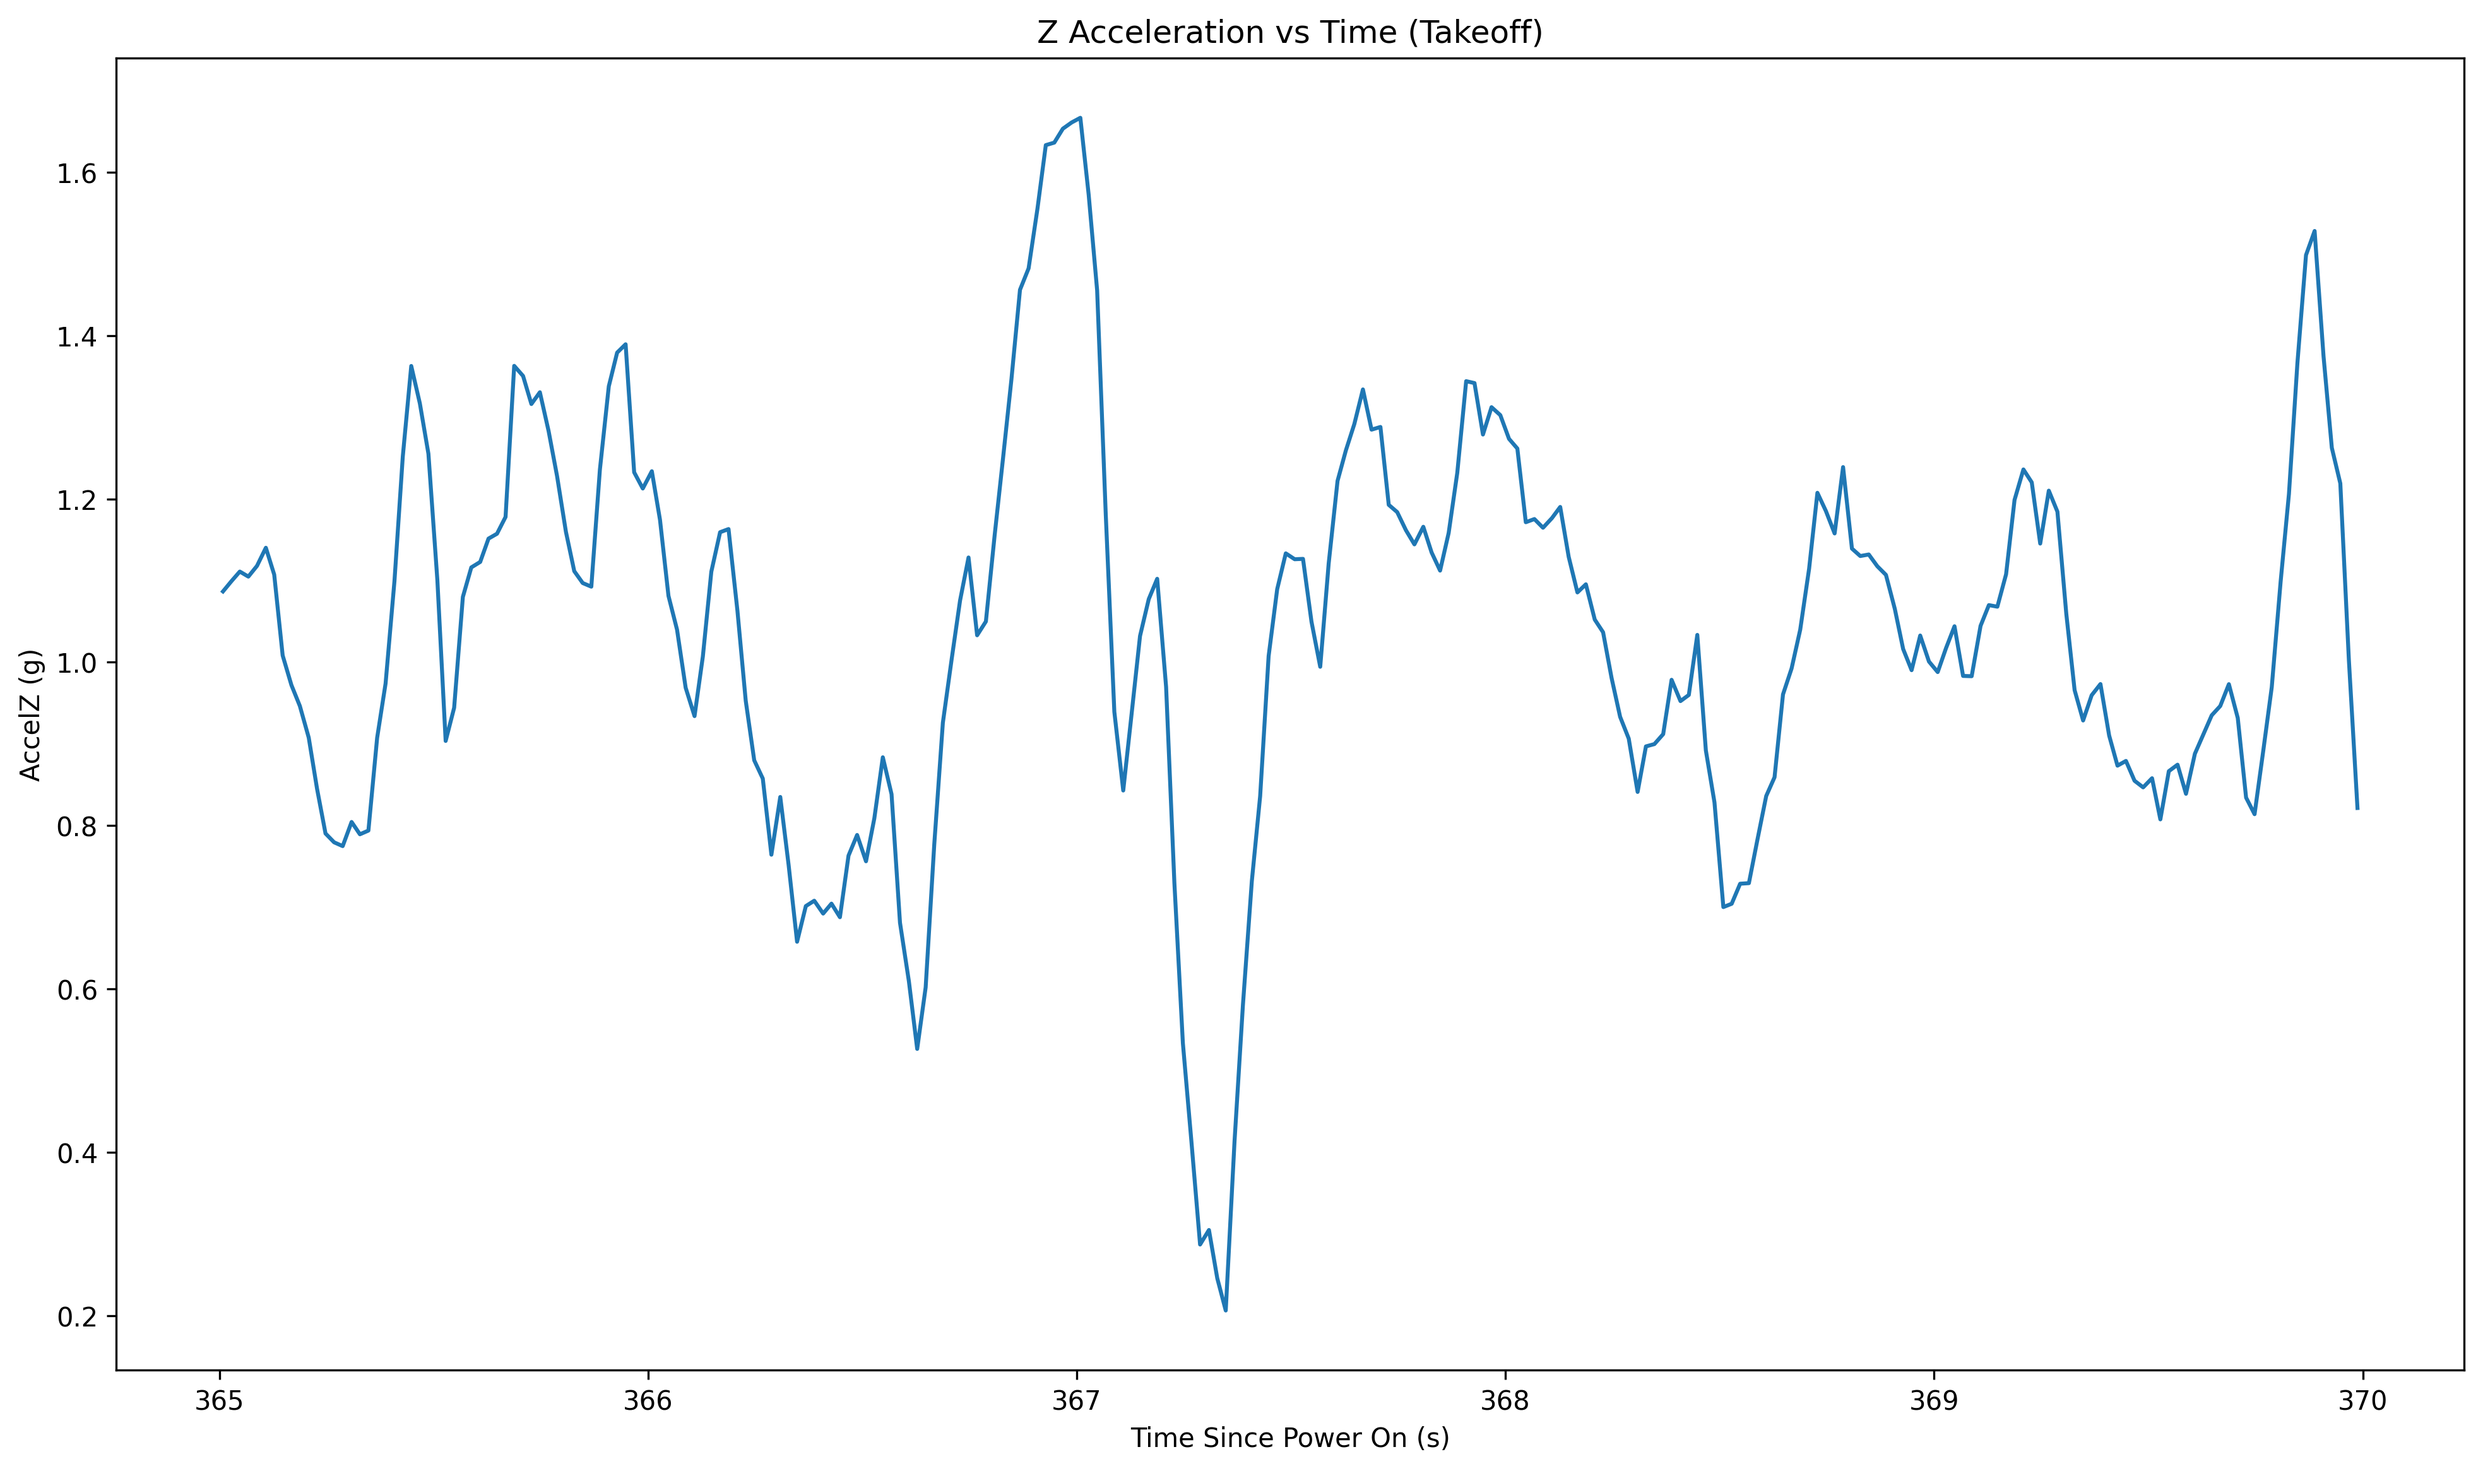
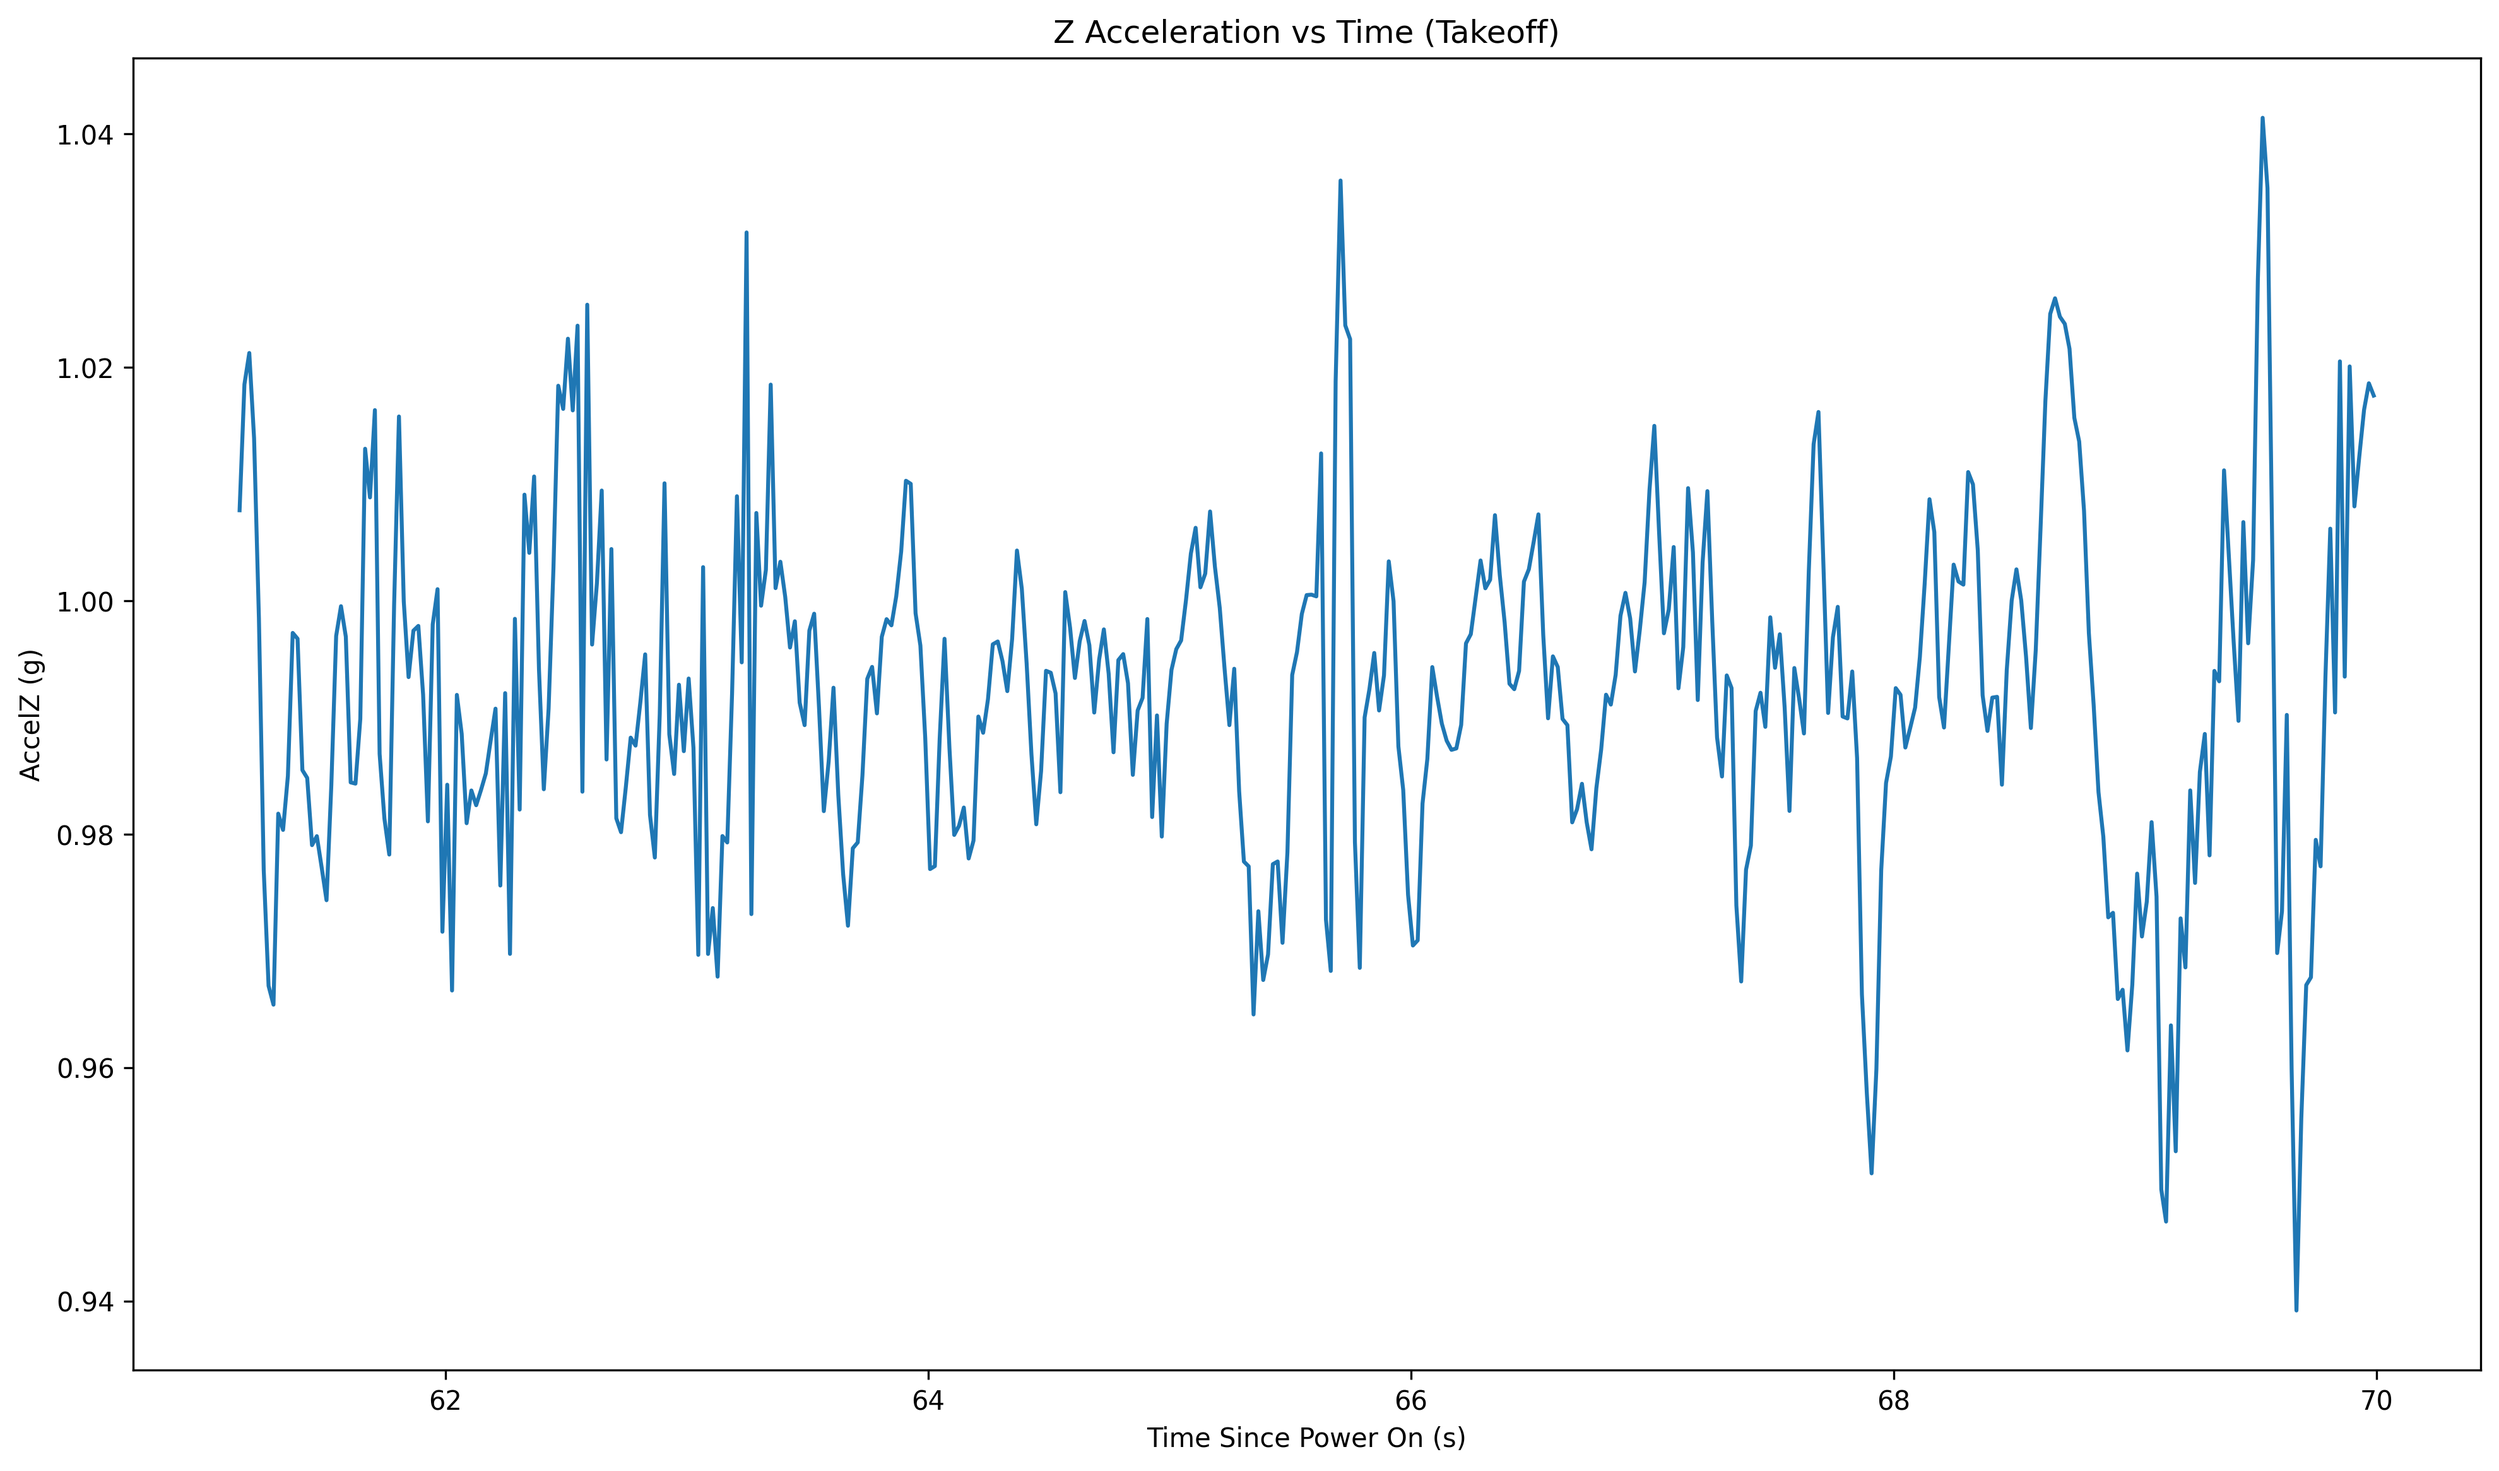
Condor0 Flight 06 Data Reduction

diff --git a/Condor 0/Flight Data/Flight 06/Data Reduction/Flight 06.py b/Condor 0/Flight Data/Flight 06/Data Reduction/Flight 06.py
@@ -62,7 +62,7 @@ plt.savefig("Condor 0\\Flight Data\\Flight 06\\Data Reduction\\Z_Acceleration_Fu
 
 plt.close()  # Close the full plot
 
-imu_takeoff = dataframes["IMU"][(dataframes["IMU"]["Timestamp"] >= 365) & (dataframes["IMU"]["Timestamp"] <= 370)]
+imu_takeoff = dataframes["IMU"][(dataframes["IMU"]["Timestamp"] >= 50) & (dataframes["IMU"]["Timestamp"] <= 70)]
 plt.figure(figsize=(16, 9))
 plt.plot(imu_takeoff["Timestamp"], imu_takeoff["AccelZ"].astype(float))  # Zoomed-in plot
 plt.xlabel("Time Since Power On (s)")
